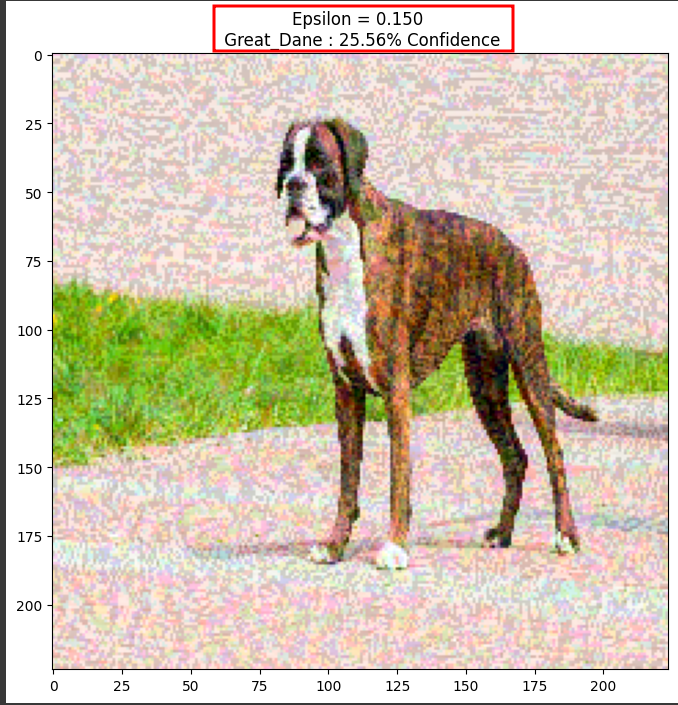
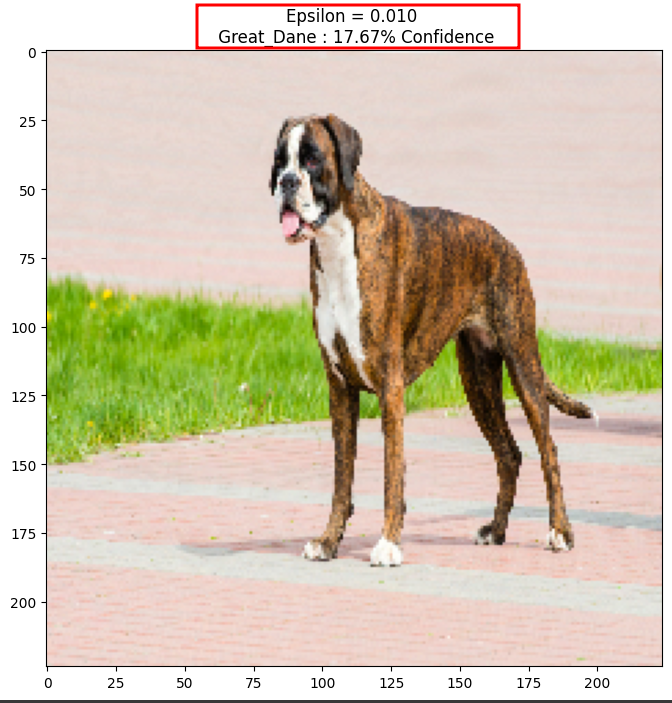
First Article  remediation part

Changed region(s): [[0.0, 0.0, 1.0, 1.0], [0.875, 0.3585, 0.9062, 0.3883]]

diff --git a/public/posts/ml_vision_models_attacks/index.html b/public/posts/ml_vision_models_attacks/index.html
@@ -8,7 +8,7 @@ Vision Models Adversial Attacks | Youness Blog
 
     <meta http-equiv="content-type" content="text/html; charset=utf-8">
 <meta name="viewport" content="width=device-width, initial-scale=1.0">
-<meta name="description" content="Cet article couvre les attaques de type FGSM et One Pixel Attack">
+<meta name="description" content="Cet article couvre les attaques de type FGSM et PGD">
 
 <meta name="generator" content="Hugo 0.145.0">
 
@@ -57,7 +57,7 @@ Vision Models Adversial Attacks | Youness Blog
 <div class="postWrapper">
     <h1>Vision Models Adversial Attacks</h1>
     
-    	<p>Cet article couvre les attaques de type FGSM et One Pixel Attack</p>
+    	<p>Cet article couvre les attaques de type FGSM et PGD</p>
     
     
     <section class="postMetadata">
@@ -72,7 +72,7 @@ Vision Models Adversial Attacks | Youness Blog
             
             
                 <dt>reading time</dt>
-                <dd>7 minutes</dd>
+                <dd>11 minutes</dd>
             
         </dl>
     </section>
@@ -155,11 +155,16 @@ Vision Models Adversial Attacks | Youness Blog
 <p>Maintenant regardons comment attaquer ce genre de modèles.</p>
 <h1 id="ii-attaques-adversiales">II. Attaques Adversiales</h1>
 <p>Une attaque adversariale est une méthode utilisée pour tromper un modèle d&rsquo;apprentissage automatique en modifiant de manière subtile mais ciblée les données d&rsquo;entrée (comme des images, des textes, etc.) de façon à induire une erreur de prédiction. Ces modifications sont généralement invisibles ou imperceptibles pour l&rsquo;humain, mais perturbent suffisamment le modèle pour qu&rsquo;il fasse des erreurs de classification ou de prédiction.</p>
+<p><img src="/images/adversial_exemple.png?width=200px" alt="Resize"></p>
 <p>Ce genre d&rsquo;attaque peuvent avoir de graves concéquences en terme de sécurité. En effet, on peut prendre le cas de l&rsquo;application de modèles de vision pour la conduite autonome de véhicules : si un attaquant parvient à effectuer une attaque adversiale visant à tromper le modèle en ajoutant une légère pertubation sur un panneau de signalisation par exemple, alors la prise de décision du véhicule autonome pour mettre en danger les passagers ainsi que les individus à proximité.</p>
 <h2 id="1-fgsm-fast-gradient-sign-method">1. FGSM (Fast Gradient Sign Method)</h2>
 <p>Le FGSM (Fast Gradient Sign Method) est une méthode d&rsquo;attaque adversariale qui génère des exemples (images dans notre cas) perturbés en utilisant les gradients du modèle pour maximiser la fonction de perte du modèle et aini induire des erreurs de prédiction.</p>
+<p>Prérequis nécessaires à l&rsquo;attaque :</p>
+<ul>
+<li>pocéder le modèle en local (witebox)</li>
+</ul>
 <h3 id="a-principe-théorique">a. Principe théorique</h3>
-<p>L&rsquo;idée est de perturber l&rsquo;entrée xx en ajoutant un bruit ϵϵ (petite perturbation) dans la direction du gradient du modèle par rapport à la perte. Cela provoque une erreur dans la prédiction du modèle tout en créant une modification quasi invisible pour un être humain.</p>
+<p>L&rsquo;idée est de perturber l&rsquo;entrée x en ajoutant un bruit ϵϵ (petite perturbation) dans la direction du gradient du modèle par rapport à la perte. Cela provoque une erreur dans la prédiction du modèle tout en créant une modification quasi invisible pour un être humain.</p>
 <p>Mathématiquement la méthode FGSM se traduit de cette façon :</p>
 <p><img src="/images/FGSM_equa.png?width=200px" alt="Resize"></p>
 <p>Avec :</p>
@@ -224,7 +229,7 @@ Vision Models Adversial Attacks | Youness Blog
 </span></span><span style="display:flex;"><span>  <span style="color:#66d9ef">return</span> signed_grad
 </span></span><span style="display:flex;"><span>
 </span></span><span style="display:flex;"><span><span style="color:#75715e"># Get the input label of the image.</span>
-</span></span><span style="display:flex;"><span>boxer_index <span style="color:#f92672">=</span> <span style="color:#ae81ff">243</span>
+</span></span><span style="display:flex;"><span>boxer_index <span style="color:#f92672">=</span> <span style="color:#ae81ff">242</span>
 </span></span><span style="display:flex;"><span>label <span style="color:#f92672">=</span> tf<span style="color:#f92672">.</span>one_hot(boxer_index, image_probs<span style="color:#f92672">.</span>shape[<span style="color:#f92672">-</span><span style="color:#ae81ff">1</span>])
 </span></span><span style="display:flex;"><span>label <span style="color:#f92672">=</span> tf<span style="color:#f92672">.</span>reshape(label, (<span style="color:#ae81ff">1</span>, image_probs<span style="color:#f92672">.</span>shape[<span style="color:#f92672">-</span><span style="color:#ae81ff">1</span>]))
 </span></span><span style="display:flex;"><span>
@@ -250,7 +255,73 @@ Vision Models Adversial Attacks | Youness Blog
 </span></span><span style="display:flex;"><span>  adv_x <span style="color:#f92672">=</span> tf<span style="color:#f92672">.</span>clip_by_value(adv_x, <span style="color:#f92672">-</span><span style="color:#ae81ff">1</span>, <span style="color:#ae81ff">1</span>)
 </span></span><span style="display:flex;"><span>  display_images(adv_x, descriptions[i])
 </span></span></code></pre></div><p><img src="/images/boxer_hacked.png?width=200px" alt="Resize"></p>
-<p>On observe qu&rsquo;avec un coefficient de pertubation de 0.15 le modèle n&rsquo;est plus en mesure de reconnaitre le boxer alors qu&rsquo;un humain est toujours en mesure de le faire.</p>
+<p>On observe qu&rsquo;avec un coefficient de pertubation de 0.01 le modèle n&rsquo;est plus en mesure de reconnaitre le boxer et reconnais un dogue allemand à la place alors que les perturbations apportées à l&rsquo;image d&rsquo;origine sont presque imperseptibles par un être humain.</p>
+<h2 id="2-pgd-projected-gradient-descent">2. PGD (Projected Gradient Descent)</h2>
+<p>Le PGD (Projected Gradient Descent) est une attaque adversiale visant à dégrader les performances d&rsquo;un modèle de machine learning. Le PGD se base sur la méthode du FGSM expliqué précédement cependant, les perturabations apportées par ce type d&rsquo;attaque sont réparties de manière optimale permettant une modification subtile mais disposant d&rsquo;un fort impact sur la qualité de prédiction du modèle.</p>
+<p>Prérequis nécessaires à l&rsquo;attaque :</p>
+<ul>
+<li>pocéder le modèle en local (witebox)</li>
+</ul>
+<h3 id="a-principe-théorique-1">a. Principe théorique</h3>
+<p>De la même manière que la méthode FGSM décrite précédement, l&rsquo;idée de la méthode FSGM est de modifier une entrée x en y ajoutant une perturbation. Cependant, le PGD, contrairement à la méthode FGSM, est une méthode itérative. En effet le PGD dégrade les performances du modèle en répétant plusieurs fois la méthode FGSM tout en projetant chaque masque de perturbation dans un interval restraint permettant une perturbation subtile sur l&rsquo;intégralité de l&rsquo;image rendant presque indétectable les modifiactions apportées sur l&rsquo;image d&rsquo;origine.</p>
+<p>Pour chaque itération :</p>
+<ul>
+<li>on calcul le gradiant de la fonction de perte par rapport à l&rsquo;image actuelle</li>
+<li>on applique un coefficient de perturbation alpha (learning rate) (de la même manière que le FGSM)</li>
+<li>on projette l&rsquo;image modifiée autour de l&rsquo;image actuel pour apporter des pertubations imperseptibles pour un être humain</li>
+</ul>
+<p>La méthode PGD peut se traduire par la formule suivante :</p>
+<p><img src="/images/PGD_equa.png?width=200px" alt="Resize"></p>
+<p>Avec :</p>
+<ul>
+<li>x_t : image à l&rsquo;étape <em>t</em></li>
+<li>alpha : learning rate (coefficient de perturbation)</li>
+<li>Gradiant(J(teta,x_t,y)) : Gradiant de la fonction de perte par rapport à l&rsquo;entrée</li>
+<li>ΠBϵ : Projection de la perturbation au sein de l&rsquo;interval de tolérence de perturbation</li>
+</ul>
+<h3 id="b-démonstration-1">b. Démonstration</h3>
+<p>Implémentons la méthode PGD :</p>
+<div class="highlight"><pre tabindex="0" style="color:#f8f8f2;background-color:#272822;-moz-tab-size:4;-o-tab-size:4;tab-size:4;"><code class="language-python" data-lang="python"><span style="display:flex;"><span><span style="color:#66d9ef">def</span> <span style="color:#a6e22e">pgd_attack</span>(model, image, label, eps<span style="color:#f92672">=</span><span style="color:#ae81ff">0.03</span>, alpha<span style="color:#f92672">=</span><span style="color:#ae81ff">0.005</span>, iters<span style="color:#f92672">=</span><span style="color:#ae81ff">40</span>):
+</span></span><span style="display:flex;"><span>    <span style="color:#75715e"># Initialiser avec l’image d’origine + petite perturbation aléatoire</span>
+</span></span><span style="display:flex;"><span>    adv_image <span style="color:#f92672">=</span> image <span style="color:#f92672">+</span> tf<span style="color:#f92672">.</span>random<span style="color:#f92672">.</span>uniform(shape<span style="color:#f92672">=</span>image<span style="color:#f92672">.</span>shape, minval<span style="color:#f92672">=-</span>eps, maxval<span style="color:#f92672">=</span>eps)
+</span></span><span style="display:flex;"><span>    adv_image <span style="color:#f92672">=</span> tf<span style="color:#f92672">.</span>clip_by_value(adv_image, <span style="color:#f92672">-</span><span style="color:#ae81ff">1.0</span>, <span style="color:#ae81ff">1.0</span>)
+</span></span><span style="display:flex;"><span>
+</span></span><span style="display:flex;"><span>    <span style="color:#66d9ef">for</span> i <span style="color:#f92672">in</span> range(iters):
+</span></span><span style="display:flex;"><span>        <span style="color:#66d9ef">with</span> tf<span style="color:#f92672">.</span>GradientTape() <span style="color:#66d9ef">as</span> tape:
+</span></span><span style="display:flex;"><span>            tape<span style="color:#f92672">.</span>watch(adv_image)
+</span></span><span style="display:flex;"><span>            prediction <span style="color:#f92672">=</span> model(adv_image)
+</span></span><span style="display:flex;"><span>            loss <span style="color:#f92672">=</span> loss_object(label, prediction)
+</span></span><span style="display:flex;"><span>        gradient <span style="color:#f92672">=</span> tape<span style="color:#f92672">.</span>gradient(loss, adv_image)
+</span></span><span style="display:flex;"><span>        adv_image <span style="color:#f92672">=</span> adv_image <span style="color:#f92672">+</span> alpha <span style="color:#f92672">*</span> tf<span style="color:#f92672">.</span>sign(gradient)
+</span></span><span style="display:flex;"><span>
+</span></span><span style="display:flex;"><span>        <span style="color:#75715e"># Projection : rester dans la &#34;balle&#34; L∞ autour de l’image originale</span>
+</span></span><span style="display:flex;"><span>        perturbation <span style="color:#f92672">=</span> tf<span style="color:#f92672">.</span>clip_by_value(adv_image <span style="color:#f92672">-</span> image, <span style="color:#f92672">-</span>eps, eps)
+</span></span><span style="display:flex;"><span>        adv_image <span style="color:#f92672">=</span> tf<span style="color:#f92672">.</span>clip_by_value(image <span style="color:#f92672">+</span> perturbation, <span style="color:#f92672">-</span><span style="color:#ae81ff">1.0</span>, <span style="color:#ae81ff">1.0</span>)
+</span></span><span style="display:flex;"><span>
+</span></span><span style="display:flex;"><span>    <span style="color:#66d9ef">return</span> adv_image
+</span></span><span style="display:flex;"><span>
+</span></span><span style="display:flex;"><span>eps <span style="color:#f92672">=</span> <span style="color:#ae81ff">0.01</span>  <span style="color:#75715e"># maximum perturbation</span>
+</span></span><span style="display:flex;"><span>alpha <span style="color:#f92672">=</span> <span style="color:#ae81ff">0.01</span>  <span style="color:#75715e"># step size</span>
+</span></span><span style="display:flex;"><span>iters <span style="color:#f92672">=</span> <span style="color:#ae81ff">30</span>  <span style="color:#75715e"># number of iterations</span>
+</span></span><span style="display:flex;"><span>
+</span></span><span style="display:flex;"><span>adv_image_pgd <span style="color:#f92672">=</span> pgd_attack(pretrained_model, image, label, eps<span style="color:#f92672">=</span>eps, alpha<span style="color:#f92672">=</span>alpha, iters<span style="color:#f92672">=</span>iters)
+</span></span><span style="display:flex;"><span>display_images(adv_image_pgd, <span style="color:#e6db74">f</span><span style="color:#e6db74">&#39;PGD Attack</span><span style="color:#ae81ff">\n</span><span style="color:#e6db74">Epsilon=</span><span style="color:#e6db74">{</span>eps<span style="color:#e6db74">}</span><span style="color:#e6db74">, Alpha=</span><span style="color:#e6db74">{</span>alpha<span style="color:#e6db74">}</span><span style="color:#e6db74">, Iters=</span><span style="color:#e6db74">{</span>iters<span style="color:#e6db74">}</span><span style="color:#e6db74">&#39;</span>)
+</span></span></code></pre></div><p>Ce qui nous donne :</p>
+<p><img src="/images/PGD_hacked.png?width=200px" alt="Resize"></p>
+<p>On observe que pour des valeures similaires de perturbation, avec seulement 30 itérations, l&rsquo;attaque via méthode PGD a dégradé suffisaement le modèle pour le rendre sûr à 99.14% que le boxer est en réalité un dogue allemand.</p>
+<p><img src="/images/FGSM_vs_PGD.png?width=200px" alt="Resize"></p>
+<p>On observe qu&rsquo;en comparaison avec le FGSM, la méthode PGD induit mieux en erreur le modèle puisque celui-ci prédit une espèce fausse de chien avec plus de confience ainis, la méthode PGD est plus efficasse pour dégrader les perfroamnces d&rsquo;un modèle</p>
+<h1 id="iii-remédiation">III. Remédiation</h1>
+<p>Prémunir les modèles de vision de moyens de défence est un réel défi. Cependant il existe plusieures méchanismes de protections qui peuvent palier à ce genre d&rsquo;ataque</p>
+<h2 id="1-adversial-training">1. Adversial Training</h2>
+<p>L&rsquo;une des méthode les plus efficasse est l&rsquo;adversial training. L&rsquo;adversial training consiste à entrainer le modèle avec des images adversiales en plus des images classiques utilisées pour l&rsquo;entrainement du modèle lui permettant de s&rsquo;habituer à reconnaitre le bon label malgré des perturbations apportées aux images.</p>
+<p>Ainsi, l&rsquo;utilisattion des méthodes FGSM et PGD appliquées aux images servant à l&rsquo;entrainement du modèle permet au modèle de s&rsquo;entrainer à reconnaitre les bons labels malgrés des perturbations apportées aux images  réduisant ainsi l&rsquo;impact des attaques adversiales sur les performances du modèle.</p>
+<p>L&rsquo;avantage de l&rsquo;adversial Training est que le modèle devient très robuste face aux attaques adversiales qu&rsquo;il a déjà &ldquo;vu&rdquo; dans les données servant à l&rsquo;entrainement du modèle. Cependant l&rsquo;inconvéniant d&rsquo;une telle méthode est que le modèle ne devient robuste uniquement face aux attaques adversiales appliquées aux données d&rsquo;entrainement. Ainis, il est difficile de généraliser ce mécanisme de défense à l&rsquo;intégralité des méthodes adversiales.</p>
+<h2 id="2-input-preprocessing">2. Input Preprocessing</h2>
+<p>Une autre méthode défensive contre les attaques adversiales sur des modèles de vision est la mise en place d&rsquo;un mécanisme de nettoyage des images envoyées par l&rsquo;utilisateur. Pour se faire il est possible d&rsquo;implémenter un DAE (Denoising autoencoders). Un DAE est modèle de machine learning permettant d&rsquo;éliminer le bruit présent au sein d&rsquo;une image permettant ainsi de réduire les perturbations causées par des attaques adversiales comme FGSM et PGD et donc de limiter l&rsquo;impacte de celles-ci sur les perforamnces du modèle.</p>
+<p><img src="/images/DAE.png?width=200px" alt="Resize"></p>
+<p>Cependant l&rsquo;utilisation de modèles de Denoised Autoencoder peuvent réduire la qualité des images envoyées par le client et donc baisser la précision du modèle après la phase de nettoyage des images.</p>
+<h1 id="iv-conclusion">IV. Conclusion</h1>
 
     </div>
 </div>

diff --git a/content/posts/ml_vision_models_attacks.md b/content/posts/ml_vision_models_attacks.md
@@ -1,7 +1,7 @@
 +++
 title = 'Vision Models Adversial Attacks'
 date = 2025-04-07T16:58:29+02:00
-description = 'Cet article couvre les attaques de type FGSM et One Pixel Attack'
+description = 'Cet article couvre les attaques de type FGSM et PGD'
 
 +++
 
@@ -106,15 +106,22 @@ Maintenant regardons comment attaquer ce genre de modèles.
 
 Une attaque adversariale est une méthode utilisée pour tromper un modèle d'apprentissage automatique en modifiant de manière subtile mais ciblée les données d'entrée (comme des images, des textes, etc.) de façon à induire une erreur de prédiction. Ces modifications sont généralement invisibles ou imperceptibles pour l'humain, mais perturbent suffisamment le modèle pour qu'il fasse des erreurs de classification ou de prédiction.
 
-Ce genre d'attaque peuvent avoir de graves concéquences en terme de sécurité. En effet, on peut prendre le cas de l'application de modèles de vision pour la conduite autonome de véhicules : si un attaquant parvient à effectuer une attaque adversiale visant à tromper le modèle en ajoutant une légère pertubation sur un panneau de signalisation par exemple, alors la prise de décision du véhicule autonome pour mettre en danger les passagers ainsi que les individus à proximité.   
+![Resize](/images/adversial_exemple.png?width=200px)
+
+
+Ce genre d'attaque peuvent avoir de graves concéquences en terme de sécurité. En effet, on peut prendre le cas de l'application de modèles de vision pour la conduite autonome de véhicules : si un attaquant parvient à effectuer une attaque adversiale visant à tromper le modèle en ajoutant une légère pertubation sur un panneau de signalisation par exemple, alors la prise de décision du véhicule autonome pour mettre en danger les passagers ainsi que les individus à proximité.
+
 
 ## 1. FGSM (Fast Gradient Sign Method) 
 
 Le FGSM (Fast Gradient Sign Method) est une méthode d'attaque adversariale qui génère des exemples (images dans notre cas) perturbés en utilisant les gradients du modèle pour maximiser la fonction de perte du modèle et aini induire des erreurs de prédiction.
 
+Prérequis nécessaires à l'attaque : 
+- pocéder le modèle en local (witebox) 
+
 ### a. Principe théorique 
 
-L'idée est de perturber l'entrée xx en ajoutant un bruit ϵϵ (petite perturbation) dans la direction du gradient du modèle par rapport à la perte. Cela provoque une erreur dans la prédiction du modèle tout en créant une modification quasi invisible pour un être humain.
+L'idée est de perturber l'entrée x en ajoutant un bruit ϵϵ (petite perturbation) dans la direction du gradient du modèle par rapport à la perte. Cela provoque une erreur dans la prédiction du modèle tout en créant une modification quasi invisible pour un être humain.
 
 Mathématiquement la méthode FGSM se traduit de cette façon : 
 
@@ -199,7 +206,7 @@ def create_adversarial_pattern(input_image, input_label):
   return signed_grad
 
 # Get the input label of the image.
-boxer_index = 243
+boxer_index = 242
 label = tf.one_hot(boxer_index, image_probs.shape[-1])
 label = tf.reshape(label, (1, image_probs.shape[-1]))
 
@@ -236,7 +243,103 @@ for i, eps in enumerate(epsilons):
 
 ![Resize](/images/boxer_hacked.png?width=200px)
 
-On observe qu'avec un coefficient de pertubation de 0.15 le modèle n'est plus en mesure de reconnaitre le boxer alors qu'un humain est toujours en mesure de le faire. 
+On observe qu'avec un coefficient de pertubation de 0.01 le modèle n'est plus en mesure de reconnaitre le boxer et reconnais un dogue allemand à la place alors que les perturbations apportées à l'image d'origine sont presque imperseptibles par un être humain. 
+
+
+## 2. PGD (Projected Gradient Descent)
+
+Le PGD (Projected Gradient Descent) est une attaque adversiale visant à dégrader les performances d'un modèle de machine learning. Le PGD se base sur la méthode du FGSM expliqué précédement cependant, les perturabations apportées par ce type d'attaque sont réparties de manière optimale permettant une modification subtile mais disposant d'un fort impact sur la qualité de prédiction du modèle.
+
+Prérequis nécessaires à l'attaque : 
+- pocéder le modèle en local (witebox) 
+
+### a. Principe théorique 
+
+De la même manière que la méthode FGSM décrite précédement, l'idée de la méthode FSGM est de modifier une entrée x en y ajoutant une perturbation. Cependant, le PGD, contrairement à la méthode FGSM, est une méthode itérative. En effet le PGD dégrade les performances du modèle en répétant plusieurs fois la méthode FGSM tout en projetant chaque masque de perturbation dans un interval restraint permettant une perturbation subtile sur l'intégralité de l'image rendant presque indétectable les modifiactions apportées sur l'image d'origine.  
+
+Pour chaque itération : 
+- on calcul le gradiant de la fonction de perte par rapport à l'image actuelle
+- on applique un coefficient de perturbation alpha (learning rate) (de la même manière que le FGSM)
+- on projette l'image modifiée autour de l'image actuel pour apporter des pertubations imperseptibles pour un être humain  
+
+La méthode PGD peut se traduire par la formule suivante : 
+
+![Resize](/images/PGD_equa.png?width=200px)
+
+Avec :
+
+- x_t : image à l'étape *t*
+- alpha : learning rate (coefficient de perturbation)
+- Gradiant(J(teta,x_t,y)) : Gradiant de la fonction de perte par rapport à l'entrée 
+- ΠBϵ : Projection de la perturbation au sein de l'interval de tolérence de perturbation  
+
+
+
+
+### b. Démonstration
+
+Implémentons la méthode PGD : 
+
+```python
+def pgd_attack(model, image, label, eps=0.03, alpha=0.005, iters=40):
+    # Initialiser avec l’image d’origine + petite perturbation aléatoire
+    adv_image = image + tf.random.uniform(shape=image.shape, minval=-eps, maxval=eps)
+    adv_image = tf.clip_by_value(adv_image, -1.0, 1.0)
+
+    for i in range(iters):
+        with tf.GradientTape() as tape:
+            tape.watch(adv_image)
+            prediction = model(adv_image)
+            loss = loss_object(label, prediction)
+        gradient = tape.gradient(loss, adv_image)
+        adv_image = adv_image + alpha * tf.sign(gradient)
+
+        # Projection : rester dans la "balle" L∞ autour de l’image originale
+        perturbation = tf.clip_by_value(adv_image - image, -eps, eps)
+        adv_image = tf.clip_by_value(image + perturbation, -1.0, 1.0)
+
+    return adv_image
+
+eps = 0.01  # maximum perturbation
+alpha = 0.01  # step size
+iters = 30  # number of iterations
+
+adv_image_pgd = pgd_attack(pretrained_model, image, label, eps=eps, alpha=alpha, iters=iters)
+display_images(adv_image_pgd, f'PGD Attack\nEpsilon={eps}, Alpha={alpha}, Iters={iters}')
+```
+Ce qui nous donne : 
+
+![Resize](/images/PGD_hacked.png?width=200px)
+
+On observe que pour des valeures similaires de perturbation, avec seulement 30 itérations, l'attaque via méthode PGD a dégradé suffisaement le modèle pour le rendre sûr à 99.14% que le boxer est en réalité un dogue allemand.
+
+![Resize](/images/FGSM_vs_PGD.png?width=200px)
+
+On observe qu'en comparaison avec le FGSM, la méthode PGD induit mieux en erreur le modèle puisque celui-ci prédit une espèce fausse de chien avec plus de confience ainis, la méthode PGD est plus efficasse pour dégrader les perfroamnces d'un modèle 
+
+# III. Remédiation 
+
+Prémunir les modèles de vision de moyens de défence est un réel défi. Cependant il existe plusieures méchanismes de protections qui peuvent palier à ce genre d'ataque 
+
+## 1. Adversial Training 
+
+L'une des méthode les plus efficasse est l'adversial training. L'adversial training consiste à entrainer le modèle avec des images adversiales en plus des images classiques utilisées pour l'entrainement du modèle lui permettant de s'habituer à reconnaitre le bon label malgré des perturbations apportées aux images. 
+
+Ainsi, l'utilisattion des méthodes FGSM et PGD appliquées aux images servant à l'entrainement du modèle permet au modèle de s'entrainer à reconnaitre les bons labels malgrés des perturbations apportées aux images  réduisant ainsi l'impact des attaques adversiales sur les performances du modèle. 
+
+L'avantage de l'adversial Training est que le modèle devient très robuste face aux attaques adversiales qu'il a déjà "vu" dans les données servant à l'entrainement du modèle. Cependant l'inconvéniant d'une telle méthode est que le modèle ne devient robuste uniquement face aux attaques adversiales appliquées aux données d'entrainement. Ainis, il est difficile de généraliser ce mécanisme de défense à l'intégralité des méthodes adversiales.
+
+## 2. Input Preprocessing 
+
+Une autre méthode défensive contre les attaques adversiales sur des modèles de vision est la mise en place d'un mécanisme de nettoyage des images envoyées par l'utilisateur. Pour se faire il est possible d'implémenter un DAE (Denoising autoencoders). Un DAE est modèle de machine learning permettant d'éliminer le bruit présent au sein d'une image permettant ainsi de réduire les perturbations causées par des attaques adversiales comme FGSM et PGD et donc de limiter l'impacte de celles-ci sur les perforamnces du modèle.
+
+![Resize](/images/DAE.png?width=200px)
+
+Cependant l'utilisation de modèles de Denoised Autoencoder peuvent réduire la qualité des images envoyées par le client et donc baisser la précision du modèle après la phase de nettoyage des images. 
+
+# IV. Conclusion 
+
+
 
 
 
